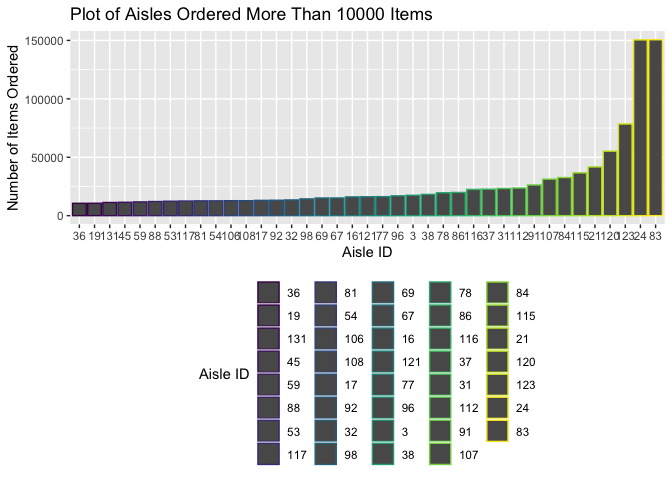
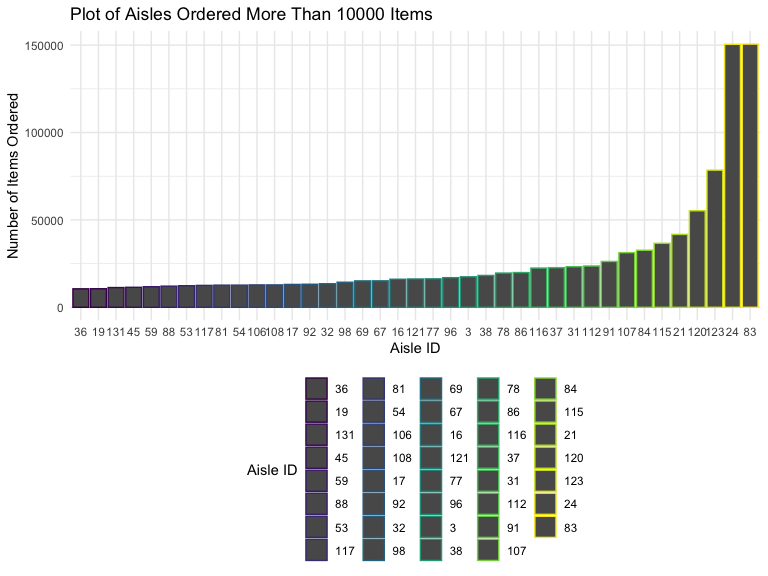
update for some graphs

diff --git a/p8105_hw3_kw2873.md b/p8105_hw3_kw2873.md
@@ -21,6 +21,39 @@ select(aisle_id) %>%
 
 ``` r
 ## the most popular aisle is aisle 83 which has been ordered 150609 times
+instacart %>%
+  group_by(aisle) %>%
+  count(aisle_id) %>%
+mutate(
+  number_of_item = n
+) %>%
+  select(-n)%>%
+  arrange(desc(number_of_item)) 
+```
+
+    ## # A tibble: 134 x 3
+    ## # Groups:   aisle [134]
+    ##    aisle                         aisle_id number_of_item
+    ##    <chr>                            <int>          <int>
+    ##  1 fresh vegetables                    83         150609
+    ##  2 fresh fruits                        24         150473
+    ##  3 packaged vegetables fruits         123          78493
+    ##  4 yogurt                             120          55240
+    ##  5 packaged cheese                     21          41699
+    ##  6 water seltzer sparkling water      115          36617
+    ##  7 milk                                84          32644
+    ##  8 chips pretzels                     107          31269
+    ##  9 soy lactosefree                     91          26240
+    ## 10 bread                              112          23635
+    ## # … with 124 more rows
+
+Make a plot that shows the number of items ordered in each aisle,
+limiting this to aisles with more than 10000 items ordered. Arrange
+aisles sensibly, and organize your plot so others can read it.
+
+``` r
+##plot showing the number of items ordered in ecah aisle from 
+## the least popular to most popular aisles
 cart_1 = instacart %>%
 select(aisle_id) %>%
   count(aisle_id) %>%
@@ -28,15 +61,9 @@ mutate(
   number_of_item = n
 ) %>%
   arrange(desc(number_of_item)) 
-```
 
-Make a plot that shows the number of items ordered in each aisle,
-limiting this to aisles with more than 10000 items ordered. Arrange
-aisles sensibly, and organize your plot so others can read it.
-
-``` r
 cart_1 %>%
-  filter(number_of_item >10000)%>%
+  filter(number_of_item > 10000) %>%
   mutate(
    aisle_id = factor(aisle_id),
   aisle_id = forcats::fct_reorder(aisle_id, number_of_item )) %>%
@@ -54,7 +81,7 @@ cart_1 %>%
    theme(legend.position = "bottom")
 ```
 
-![](p8105_hw3_kw2873_files/figure-gfm/unnamed-chunk-3-1.png)<!-- -->
+<img src="p8105_hw3_kw2873_files/figure-gfm/unnamed-chunk-3-1.png" width="90%" />
 
 Make a table showing the three most popular items in each of the aisles
 “baking ingredients”, “dog food care”, and “packaged vegetables
@@ -62,51 +89,27 @@ fruits”. Include the number of times each item is ordered in your
 table.
 
 ``` r
-##generating dataset for packaged vegetables fruits with top3 items
-pvf =
-instacart %>%
-  filter(aisle == "packaged vegetables fruits" )  %>%
-  select(aisle, product_name) %>%
-  count(aisle, product_name) %>%
-  arrange(desc(n))  %>%
-  filter(n > 4059) 
-
-##generating dataset for dog food care with top 3 items
-dfc = 
-instacart %>%
- filter(aisle == "dog food care")%>%
- select(aisle, product_name) %>%
-  count(aisle, product_name) %>%
-  arrange(desc(n)) %>%
- filter(n > 25) 
-
-##generating dataset for baking ingredients with top 3 items
-bi =
-instacart %>%
- filter(aisle == "baking ingredients")%>%
-  select(aisle, product_name) %>%
-  count(aisle, product_name) %>%
-  arrange(desc(n)) %>%
- filter(n > 329)
-
-## combining above dataset to make the desired table
-table1 =
-bind_rows(pvf,dfc,bi) %>%
-knitr::kable()
-table1 
+item_table = instacart %>% 
+  group_by(aisle, product_name) %>% 
+  filter(aisle == "baking ingredients" | aisle == "dog food care" |  aisle == "packaged vegetables fruits") %>% 
+  summarize(number_sale = n()) %>% 
+  filter(min_rank(desc(number_sale)) < 4) %>% 
+  arrange(desc(number_sale)) %>% 
+  knitr::kable()
+item_table
 ```
 
-| aisle                      | product\_name                                 |    n |
-| :------------------------- | :-------------------------------------------- | ---: |
-| packaged vegetables fruits | Organic Baby Spinach                          | 9784 |
-| packaged vegetables fruits | Organic Raspberries                           | 5546 |
-| packaged vegetables fruits | Organic Blueberries                           | 4966 |
-| dog food care              | Snack Sticks Chicken & Rice Recipe Dog Treats |   30 |
-| dog food care              | Organix Chicken & Brown Rice Recipe           |   28 |
-| dog food care              | Small Dog Biscuits                            |   26 |
-| baking ingredients         | Light Brown Sugar                             |  499 |
-| baking ingredients         | Pure Baking Soda                              |  387 |
-| baking ingredients         | Cane Sugar                                    |  336 |
+| aisle                      | product\_name                                 | number\_sale |
+| :------------------------- | :-------------------------------------------- | -----------: |
+| packaged vegetables fruits | Organic Baby Spinach                          |         9784 |
+| packaged vegetables fruits | Organic Raspberries                           |         5546 |
+| packaged vegetables fruits | Organic Blueberries                           |         4966 |
+| baking ingredients         | Light Brown Sugar                             |          499 |
+| baking ingredients         | Pure Baking Soda                              |          387 |
+| baking ingredients         | Cane Sugar                                    |          336 |
+| dog food care              | Snack Sticks Chicken & Rice Recipe Dog Treats |           30 |
+| dog food care              | Organix Chicken & Brown Rice Recipe           |           28 |
+| dog food care              | Small Dog Biscuits                            |           26 |
 
 Make a table showing the mean hour of the day at which Pink Lady Apples
 and Coffee Ice Cream are ordered on each day of the week; format this
@@ -130,15 +133,14 @@ instacart %>%
         Thur = "4",
         Fri = "5" ,
         Sat = "6"
-        )
+        )%>%
+knitr::kable(digit = 1)
 ```
 
-    ## # A tibble: 2 x 8
-    ## # Groups:   product_name [2]
-    ##   product_name       Sun   Mon   Tue   Wed  Thur   Fri   Sat
-    ##   <chr>            <dbl> <dbl> <dbl> <dbl> <dbl> <dbl> <dbl>
-    ## 1 Coffee Ice Cream  13.8  14.3  15.4  15.3  15.2  12.3  13.8
-    ## 2 Pink Lady Apples  13.4  11.4  11.7  14.2  11.6  12.8  11.9
+| product\_name    |  Sun |  Mon |  Tue |  Wed | Thur |  Fri |  Sat |
+| :--------------- | ---: | ---: | ---: | ---: | ---: | ---: | ---: |
+| Coffee Ice Cream | 13.8 | 14.3 | 15.4 | 15.3 | 15.2 | 12.3 | 13.8 |
+| Pink Lady Apples | 13.4 | 11.4 | 11.7 | 14.2 | 11.6 | 12.8 | 11.9 |
 
 format the data to use appropriate variable names; focus on the “Overall
 Health” topic include only responses from “Excellent” to “Poor” organize
@@ -260,7 +262,7 @@ brfss %>%
   )
 ```
 
-![](p8105_hw3_kw2873_files/figure-gfm/unnamed-chunk-8-1.png)<!-- -->
+<img src="p8105_hw3_kw2873_files/figure-gfm/unnamed-chunk-8-1.png" width="90%" />
 
 Make a two-panel plot showing, for the years 2006, and 2010,
 distribution of data\_value for responses (“Poor” to “Excellent”) among
@@ -278,11 +280,8 @@ arrange(response)%>%
   filter(state == "NY") %>% 
   group_by(response) %>%  
   ggplot(aes(x = data_value, fill = response)) +
-  # set transparency
   geom_density(alpha = 0.5) +
-  # create a two panel plot for responses among locations in NY State
   facet_grid(year ~ response) +
-  # add title, labels for x- and y- labels and caption
   labs(
     title = "Two Panel Plot for Responses among Locations in NY State",
     x = "Data Value",
@@ -290,7 +289,7 @@ arrange(response)%>%
   )
 ```
 
-![](p8105_hw3_kw2873_files/figure-gfm/unnamed-chunk-9-1.png)<!-- -->
+<img src="p8105_hw3_kw2873_files/figure-gfm/unnamed-chunk-9-1.png" width="90%" />
 
 Load, tidy, and otherwise wrangle the data. Your final dataset should
 include all originally observed variables and values; have useful
@@ -315,8 +314,8 @@ tidy_accel_data =
 accel_data %>%
 janitor::clean_names() %>%
 pivot_longer(
-  activity_1:activity_1440, ## choose the column you want to combine
-  names_to = "nth_minute",  ###name the new-made column
+  activity_1:activity_1440,
+  names_to = "nth_minute", 
   names_prefix = "activity_",
   values_to = "activity" 
   ) %>% 
@@ -403,7 +402,6 @@ table_data %>%
   ggplot(aes(x = day_number, y = sum_of_day)) +
   geom_point(aes(color = day_number), alpha = 0.5) +
   geom_line(aes(color = day_number)) +
-  # add title, labels for x- and y- axis and caption
   labs(
     title = "Trend Plot for Activity Across 35 days ",
     x = "Days",
@@ -411,13 +409,12 @@ table_data %>%
     caption = "Data from the Advanced Cardiac Care Center of Columbia University Medical Center"
   ) +
   scale_y_continuous(
-    # make the y-axis labels a bit prettier
     breaks = c(0, 200000, 400000, 600000, 800000),
     labels = c("0", "200000", "400000", "600000", "800000")
     )
 ```
 
-![](p8105_hw3_kw2873_files/figure-gfm/unnamed-chunk-11-1.png)<!-- -->
+<img src="p8105_hw3_kw2873_files/figure-gfm/unnamed-chunk-11-1.png" width="90%" />
 
 Accelerometer data allows the inspection activity over the course of the
 day. Make a single-panel plot that shows the 24-hour activity time
@@ -428,6 +425,7 @@ in words any patterns or conclusions you can make based on this graph.
 tidy_accel_data %>% 
   group_by(day) %>% 
   mutate(
+  ### cahnging min into hour using rounding
   hour_per_day = ceiling(nth_minute/60)) %>% 
   group_by(day, hour_per_day) %>% 
   summarize(sum_by_hour = sum(activity)) %>% 
@@ -448,4 +446,4 @@ tidy_accel_data %>%
     labels = c("0", "4", "8", "12", "16", "20", "24"))
 ```
 
-![](p8105_hw3_kw2873_files/figure-gfm/unnamed-chunk-12-1.png)<!-- -->
+<img src="p8105_hw3_kw2873_files/figure-gfm/unnamed-chunk-12-1.png" width="90%" />
